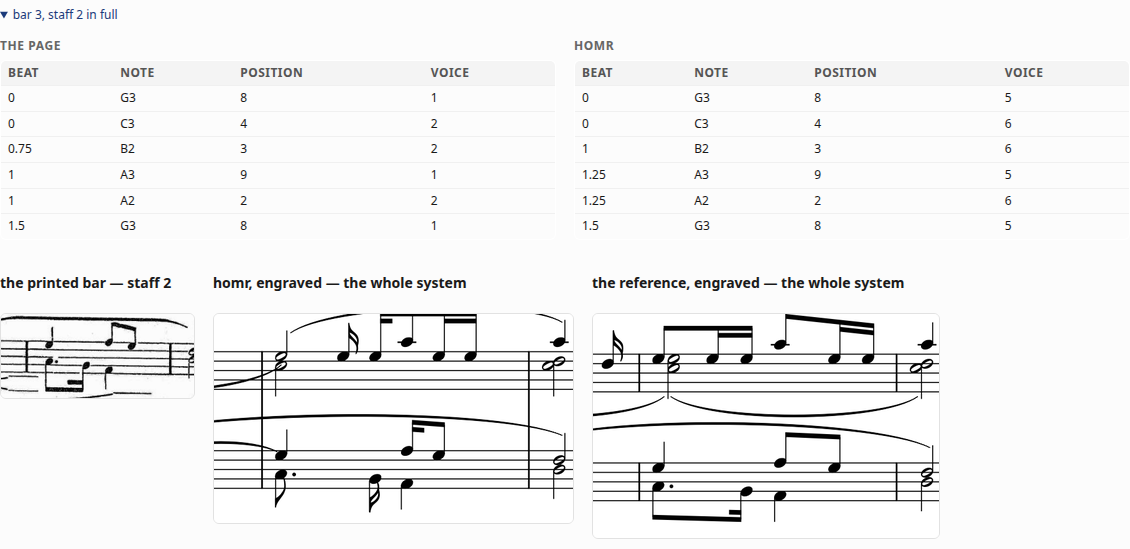
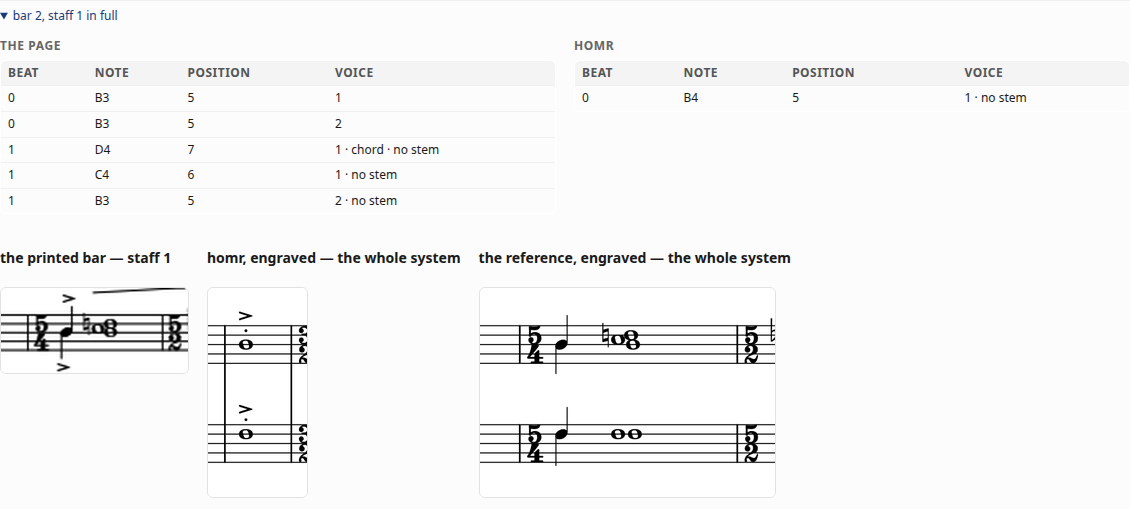
Two lines too close to be a bar are one boundary
Refusing sammon-ryosto's crops was right but not the answer: the picture is
what settles which side is wrong about the page, so not drawing it costs the
thing the panel is for.

Its detection puts two lines 0.049 of the width apart where its bars average
0.23. That is not a bar. It is a double barline -- thin against thick at a
section end -- or a line invented beside a real one, and either way it is one
boundary. Folding it away leaves four bars, which is what the score holds, so
the crop is drawn and it is the bar the row names: bar 2's picture now shows
the same 5/4 chord the reference engraves.

Measured against the system's own median gap rather than a fixed distance,
because how wide a bar is depends entirely on how many the system holds. The
right-hand line is kept: at a thin-thick double bar the music ends at the
thick one, and where the extra line is noise the two are close enough that
the crop's own widening covers it.

Nothing about this looks at how many bars the score has. Merging until the
count came out right would be fitting the geometry to the answer, which is
exactly how the off-by-one this repairs got in -- and the count check still
runs afterwards, so a system that genuinely cannot be cut up is still
refused.

All ten faults across the two failing fixtures now draw all three pictures,
none refused, and nothing overflows.

diff --git a/fixturecheck/bars.py b/fixturecheck/bars.py
@@ -37,6 +37,16 @@ SAME_LINE = 0.01
 #: system's opening rule is one of a pair with the bracket.
 OPENING_NEAR = 0.03
 
+#: A gap this much smaller than the system's typical bar is not a bar. Two lines
+#: that close are a **double barline** — a section end, thin against thick — or
+#: one of them is not a barline at all. `sammon-ryosto` has such a pair 0.049 of
+#: the width apart where its bars average 0.23, and treating it as a fifth bar
+#: is what put every crop on that case one bar out.
+#:
+#: Measured against the median gap rather than a fixed distance, because how
+#: wide a bar is depends entirely on how many the system holds.
+NARROW_SHARE = 0.35
+
 #: How much wider than the bar itself a crop is drawn, as a fraction of the
 #: bar's own size. A bar cut exactly at its barlines reads as a fragment: what
 #: the note before it was, and whether the phrase carries on, are part of
@@ -217,9 +227,41 @@ def boundaries_for(geo: dict, expected_bars: int) -> list[float] | None:
     opening = min(s.get("left", 0.0) for s in staves)
     if lines[0] - opening > OPENING_NEAR:
         lines = [opening] + lines
+    lines = _merge_narrow(lines)
     if len(lines) - 1 != expected_bars:
         return None
     return lines
+
+
+def _merge_narrow(lines: list[float]) -> list[float]:
+    """Fold away boundaries too close together to be separate bars.
+
+    A double barline is two lines a few millimetres apart and one bar boundary,
+    and so is a line the detector invented beside a real one. Either way the
+    gap it opens is a small fraction of a real bar, so it is measured against
+    the system's own median gap rather than against a distance.
+
+    The **right-hand** line is the one kept: at a thin-thick double bar the
+    music ends at the thick one, and where the extra line is noise the two are
+    close enough that the crop's own widening covers the difference.
+
+    Nothing here looks at how many bars the score has. Merging until the count
+    came out right would be fitting the geometry to the answer, which is how
+    the off-by-one it fixes got in.
+    """
+    if len(lines) < 3:
+        return lines
+    gaps = sorted(b - a for a, b in zip(lines, lines[1:]))
+    median = gaps[len(gaps) // 2]
+    if median <= 0:
+        return lines
+    kept = [lines[0]]
+    for line in lines[1:]:
+        if line - kept[-1] < NARROW_SHARE * median:
+            kept[-1] = line          # the right-hand line is the boundary
+        else:
+            kept.append(line)
+    return kept
 
 
 def implied_bars(geo: dict) -> int:

diff --git a/tests/test_fixturecheck_bars.py b/tests/test_fixturecheck_bars.py
@@ -115,8 +115,35 @@ def test_a_missing_opening_line_and_a_spurious_one_do_not_cancel_out():
     """
     geo = {"bar_lines": [0.218, 0.332, 0.661, 0.710, 0.960],
            "staves": [{"top": 0.2, "bottom": 0.33, "left": 0.042, "right": 0.958}]}
+    # Both errors are corrected on their own evidence: the opening is added
+    # back because the first line is nowhere near the staff's edge, and the
+    # 0.049 gap is folded away because it is a fifth of a real bar here.
+    assert bars.boundaries_for(geo, 4) == [0.042, 0.218, 0.332, 0.710, 0.960]
+    # Which means bar 2 is bar 2 -- it used to come out as bar 3's box.
+    box = bars.bar_box(geo, 1, 2, 4)
+    assert box is not None
+    assert box["left"] < 0.218 and 0.332 < box["right"] < 0.5
+
+
+def test_two_lines_too_close_to_be_a_bar_are_one_boundary():
+    """A double barline is two lines and one boundary, and so is a stray.
+
+    Measured against the system's own median gap, because how wide a bar is
+    depends on how many the system holds. The right-hand line is kept: at a
+    thin-thick double bar the music ends at the thick one.
+    """
+    geo = {"bar_lines": [0.05, 0.30, 0.55, 0.58, 0.80],
+           "staves": [{"top": 0.1, "bottom": 0.2, "left": 0.05, "right": 0.95}]}
+    # Five lines, but 0.55 and 0.58 are one boundary — so three bars, not four.
+    assert bars.boundaries_for(geo, 3) == [0.05, 0.30, 0.58, 0.80]
     assert bars.boundaries_for(geo, 4) is None
-    assert bars.bar_box(geo, 1, 2, 4) is None
+
+
+def test_bars_that_are_merely_uneven_are_left_alone():
+    """Real music has short bars; only implausible ones are folded away."""
+    geo = {"bar_lines": [0.05, 0.28, 0.42, 0.70, 0.95],
+           "staves": [{"top": 0.1, "bottom": 0.2, "left": 0.05, "right": 0.95}]}
+    assert bars.boundaries_for(geo, 4) == [0.05, 0.28, 0.42, 0.70, 0.95]
     """The numbering would be a guess, and a guessed crop is worse than none."""
     assert bars.boundaries_for(_geo([0.3, 0.9]), 4) is None
     assert bars.boundaries_for(_geo([0.2, 0.4, 0.6, 0.8, 0.9]), 2) is None

diff --git a/QUALITY.md b/QUALITY.md
@@ -6,7 +6,7 @@ Regenerated from `fixturecheck/series.jsonl` on every run — do not edit by han
 
 | harness | measured | homr | references | of everything judged, right | cases |
 | --- | --- | --- | --- | --- | --- |
-| `fixturecheck` | 2026-09-05T05:27:59+00:00 (one) | `71e6819` | `ff33f48a1bcaac77` | **95.8%** | 5 read |
+| `fixturecheck` | 2026-09-05T05:34:03+00:00 (one) | `71e6819` | `ff33f48a1bcaac77` | **95.8%** | 5 read |
 | `choir-bench` | _never_ | — | — | — | — |
 
 **[Look at the music](https://bazzite.taile8d16e.ts.net:8124/index.html)** — the printed band, homr's engraving and the reference, system by system. A count can say a system agrees on staves, bars and noteheads and still not say whether the parse is the music.
@@ -15,7 +15,7 @@ The two are **not averaged**. `fixturecheck` scores notes across the printed sys
 
 ## The gate
 
-**FAIL** — 3/5 perfect as of 2026-09-05T05:27:59+00:00; below 100%: `hanget-soi`, `sammon-ryosto`.
+**FAIL** — 3/5 perfect as of 2026-09-05T05:34:03+00:00; below 100%: `hanget-soi`, `sammon-ryosto`.
 
 The five committed fixtures are small single systems this repository owns outright, and they are expected to be **perfect**. Anything less is a failure of the run, not a row in a table.
 
@@ -23,8 +23,6 @@ The five committed fixtures are small single systems this repository owns outrig
 
 | when | harness | tier | homr | references | right |
 | --- | --- | --- | --- | --- | --- |
-| 2026-09-05T05:12:15+00:00 | `fixturecheck` | one | `71e6819` | `ff33f48a1bcaac77` | 85.3% |
-| 2026-09-05T05:13:38+00:00 | `fixturecheck` | one | `71e6819` | `ff33f48a1bcaac77` | 95.8% |
 | 2026-09-05T05:15:13+00:00 | `fixturecheck` | one | `71e6819` | `ff33f48a1bcaac77` | 95.8% |
 | 2026-09-05T05:18:59+00:00 | `fixturecheck` | one | `71e6819` | `ff33f48a1bcaac77` | 88.4% |
 | 2026-09-05T05:20:37+00:00 | `fixturecheck` | one | `71e6819` | `ff33f48a1bcaac77` | 87.0% |
@@ -35,6 +33,8 @@ The five committed fixtures are small single systems this repository owns outrig
 | 2026-09-05T05:26:05+00:00 | `fixturecheck` | one | `71e6819` | `ff33f48a1bcaac77` | 95.8% |
 | 2026-09-05T05:26:57+00:00 | `fixturecheck` | one | `71e6819` | `ff33f48a1bcaac77` | 87.0% |
 | 2026-09-05T05:27:59+00:00 | `fixturecheck` | one | `71e6819` | `ff33f48a1bcaac77` | 95.8% |
+| 2026-09-05T05:32:33+00:00 | `fixturecheck` | one | `71e6819` | `ff33f48a1bcaac77` | 88.4% |
+| 2026-09-05T05:34:03+00:00 | `fixturecheck` | one | `71e6819` | `ff33f48a1bcaac77` | 95.8% |
 
 A tier is not a sample of the one above it — a ten-case run and a full sweep are different populations, so read a percentage against runs of the same tier.
 

diff --git a/fixturecheck/README.md b/fixturecheck/README.md
@@ -113,12 +113,28 @@ where it drew one. Finding a bar in a photograph is not: it needs the barlines,
 which come from **homr's own detection**
 (`bars.geometry`, the same segmentation pass `scripts/homr_staves.py` uses in
 the choir app, cached per case). The lines have to cut the system into exactly
-the bars the reference says it holds, and a system's *opening* rule is normally
-not detected — it is one of a pair with the bracket — so `n` bars usually come
-back as `n` lines and the staff's own left edge is added back as the first
-boundary. Anything else is **refused**, and the row says why. A crop of the
-wrong bar is a confident picture of the wrong music underneath a finding, which
-is the mistake this whole harness exists to stop.
+the bars the score says it holds, and two things are corrected first — each on
+its own evidence, never on the count:
+
+- **The opening rule is normally not detected**, being one of a pair with the
+  bracket. Whether it is missing is decided by *where it would be*: if the first
+  detected line is nowhere near the staff's own left edge, the edge is added
+  back as the first boundary.
+- **Two lines too close together are one boundary** — a double barline, thin
+  against thick, or a line the detector invented beside a real one. Measured
+  against the system's own median gap, since how wide a bar is depends on how
+  many the system holds. The right-hand line is kept, because at a thin-thick
+  double bar the music ends at the thick one.
+
+Anything left over is **refused**, and the row says what was found. A crop of
+the wrong bar is a confident picture of the wrong music underneath a finding,
+which is the mistake this whole harness exists to stop.
+
+Deciding either of these **by the count is not safe**, and `sammon-ryosto` is
+why. Its detection missed the opening rule *and* found one stray line, which
+came to exactly four bars' worth of boundaries and was accepted — so every crop
+on that case was one bar to the right of the row that named it. Counting cannot
+tell two cancelling errors from none.
 
 Song systems keep the first-three-faults treatment in the series. This is the
 report, and the report has always been where the music is shown.
